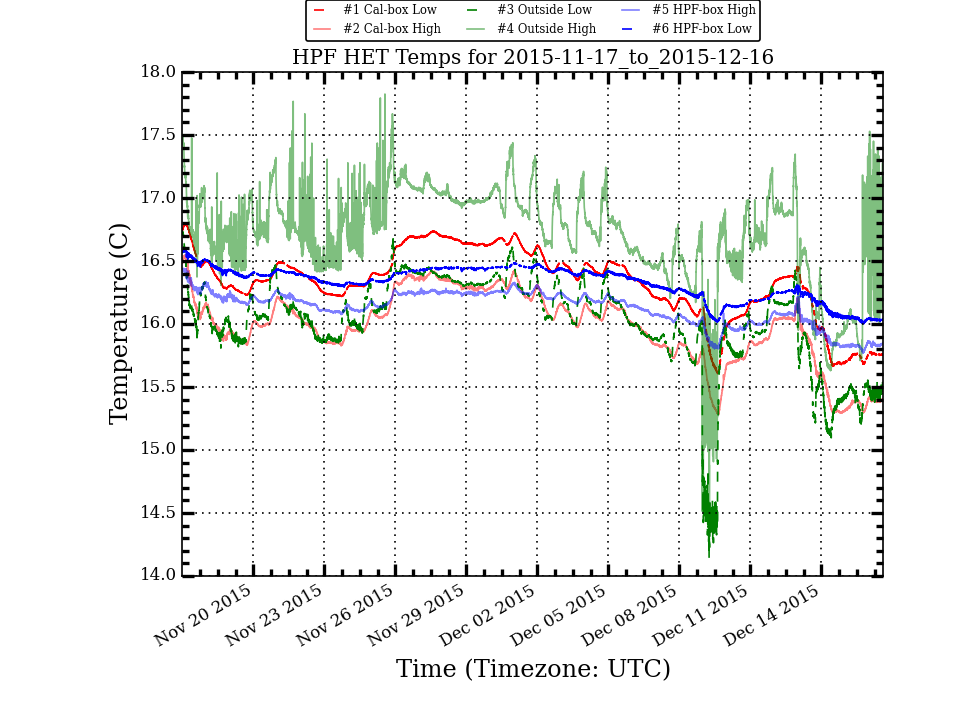
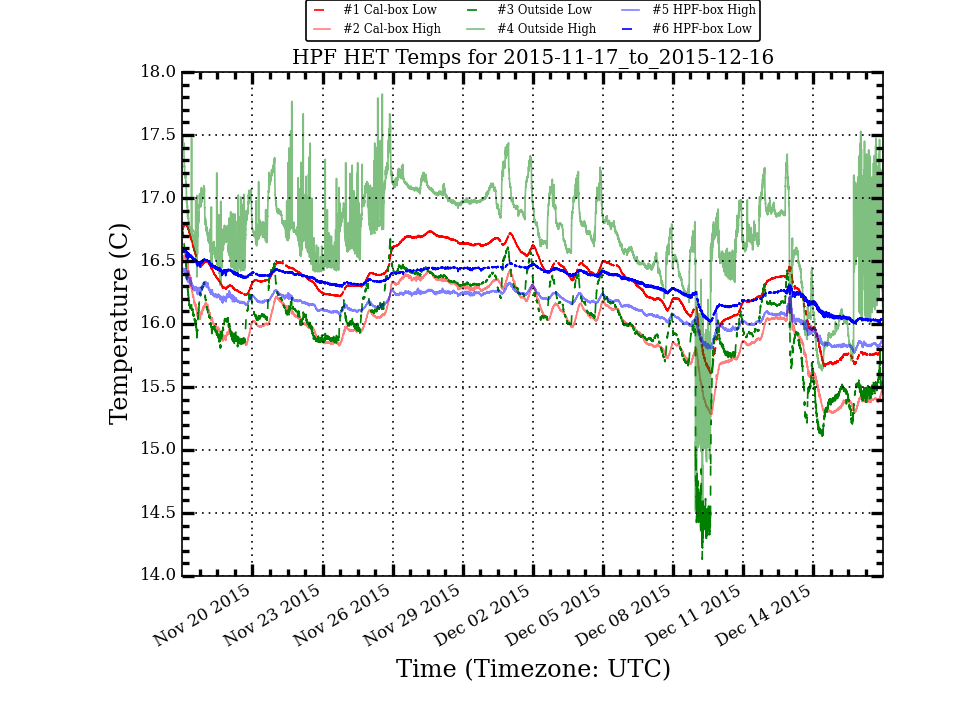
Update HPF Temp Plots

diff --git a/research/hpf_temps/plots/LakeShoreLogTotal_month_stats.html b/research/hpf_temps/plots/LakeShoreLogTotal_month_stats.html
@@ -10,54 +10,54 @@
  </TR>
  <TR>
   <TD>Cal_Low</TD>
-  <TD>16.328</TD>
-  <TD>0.277</TD>
-  <TD>16.363</TD>
+  <TD>16.321</TD>
+  <TD>0.282</TD>
+  <TD>16.360</TD>
   <TD>16.795</TD>
   <TD>15.604</TD>
   <TD>1.191</TD>
  </TR>
  <TR>
   <TD>Cal_High</TD>
-  <TD>15.979</TD>
-  <TD>0.288</TD>
-  <TD>16.015</TD>
+  <TD>15.972</TD>
+  <TD>0.293</TD>
+  <TD>16.008</TD>
   <TD>16.550</TD>
   <TD>15.284</TD>
   <TD>1.266</TD>
  </TR>
  <TR>
   <TD>Out_Low</TD>
-  <TD>16.014</TD>
-  <TD>0.375</TD>
-  <TD>16.067</TD>
+  <TD>16.007</TD>
+  <TD>0.377</TD>
+  <TD>16.064</TD>
   <TD>16.736</TD>
   <TD>14.133</TD>
   <TD>2.603</TD>
  </TR>
  <TR>
   <TD>Out_High</TD>
-  <TD>16.694</TD>
-  <TD>0.384</TD>
-  <TD>16.736</TD>
+  <TD>16.695</TD>
+  <TD>0.383</TD>
+  <TD>16.737</TD>
   <TD>17.825</TD>
   <TD>14.513</TD>
   <TD>3.312</TD>
  </TR>
  <TR>
   <TD>HPF_High</TD>
-  <TD>16.128</TD>
-  <TD>0.137</TD>
-  <TD>16.171</TD>
+  <TD>16.124</TD>
+  <TD>0.140</TD>
+  <TD>16.170</TD>
   <TD>16.441</TD>
   <TD>15.771</TD>
   <TD>0.670</TD>
  </TR>
  <TR>
   <TD>HPF_Low</TD>
-  <TD>16.329</TD>
-  <TD>0.131</TD>
-  <TD>16.379</TD>
+  <TD>16.325</TD>
+  <TD>0.135</TD>
+  <TD>16.376</TD>
   <TD>16.588</TD>
   <TD>15.997</TD>
   <TD>0.591</TD>

diff --git a/research/hpf_temps/plots/LakeShoreLogTotal_week_stats.html b/research/hpf_temps/plots/LakeShoreLogTotal_week_stats.html
@@ -10,54 +10,54 @@
  </TR>
  <TR>
   <TD>Cal_Low</TD>
-  <TD>16.026</TD>
+  <TD>16.013</TD>
   <TD>0.251</TD>
-  <TD>16.049</TD>
+  <TD>16.035</TD>
   <TD>16.456</TD>
   <TD>15.665</TD>
   <TD>0.791</TD>
  </TR>
  <TR>
   <TD>Cal_High</TD>
-  <TD>15.676</TD>
-  <TD>0.272</TD>
-  <TD>15.708</TD>
+  <TD>15.661</TD>
+  <TD>0.271</TD>
+  <TD>15.696</TD>
   <TD>16.209</TD>
   <TD>15.292</TD>
   <TD>0.917</TD>
  </TR>
  <TR>
   <TD>Out_Low</TD>
-  <TD>15.719</TD>
-  <TD>0.330</TD>
-  <TD>15.754</TD>
+  <TD>15.709</TD>
+  <TD>0.324</TD>
+  <TD>15.691</TD>
   <TD>16.426</TD>
   <TD>15.097</TD>
   <TD>1.329</TD>
  </TR>
  <TR>
   <TD>Out_High</TD>
-  <TD>16.459</TD>
-  <TD>0.433</TD>
-  <TD>16.530</TD>
+  <TD>16.477</TD>
+  <TD>0.435</TD>
+  <TD>16.548</TD>
   <TD>17.529</TD>
   <TD>15.629</TD>
   <TD>1.900</TD>
  </TR>
  <TR>
   <TD>HPF_High</TD>
-  <TD>15.950</TD>
-  <TD>0.100</TD>
-  <TD>15.963</TD>
+  <TD>15.944</TD>
+  <TD>0.101</TD>
+  <TD>15.958</TD>
   <TD>16.221</TD>
   <TD>15.771</TD>
   <TD>0.450</TD>
  </TR>
  <TR>
   <TD>HPF_Low</TD>
-  <TD>16.148</TD>
-  <TD>0.083</TD>
-  <TD>16.152</TD>
+  <TD>16.142</TD>
+  <TD>0.085</TD>
+  <TD>16.147</TD>
   <TD>16.331</TD>
   <TD>15.997</TD>
   <TD>0.334</TD>
